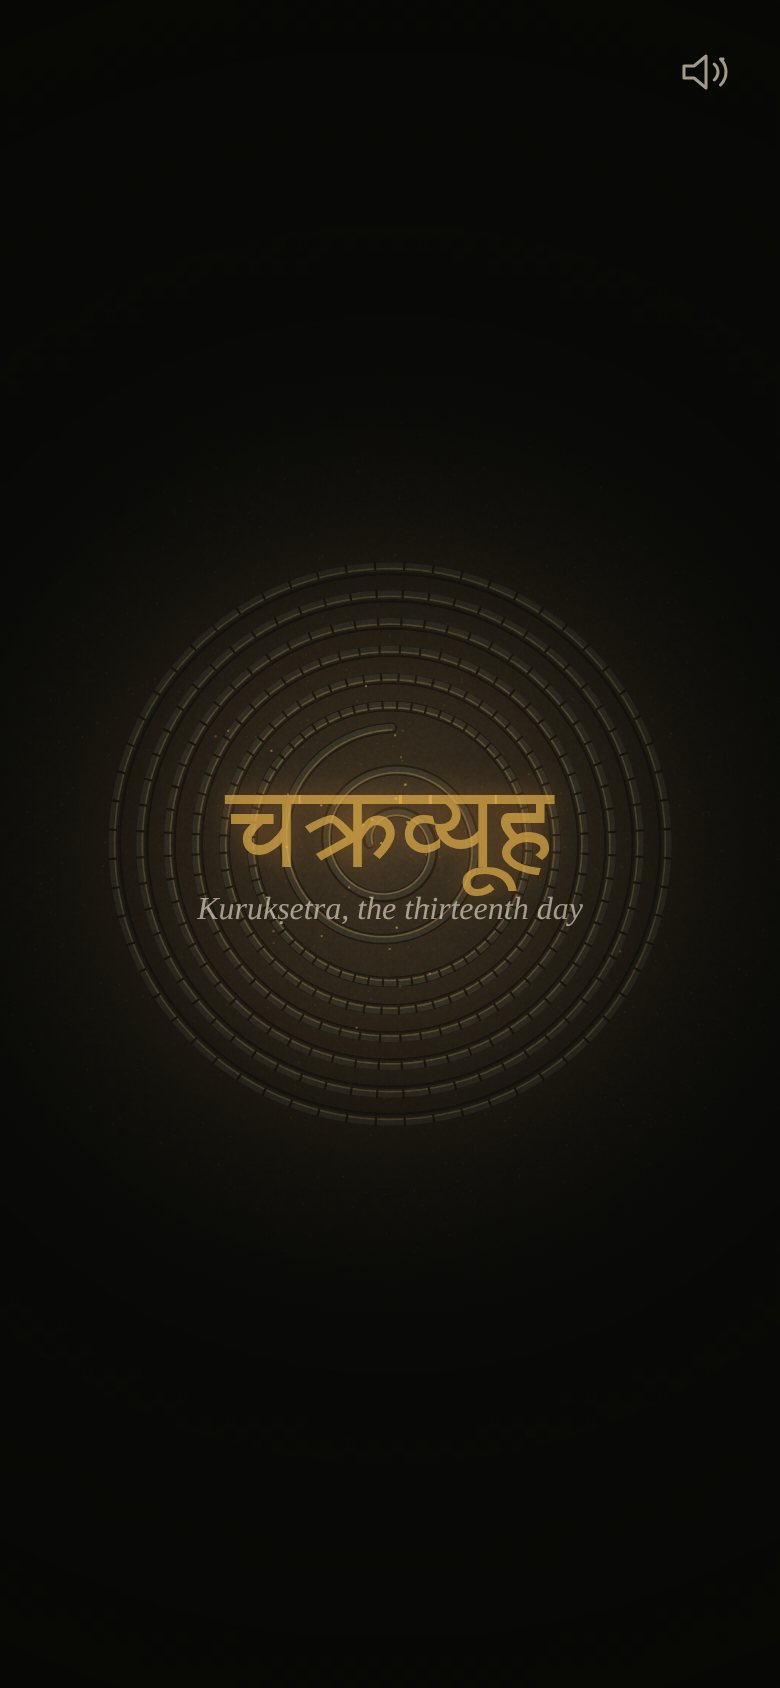
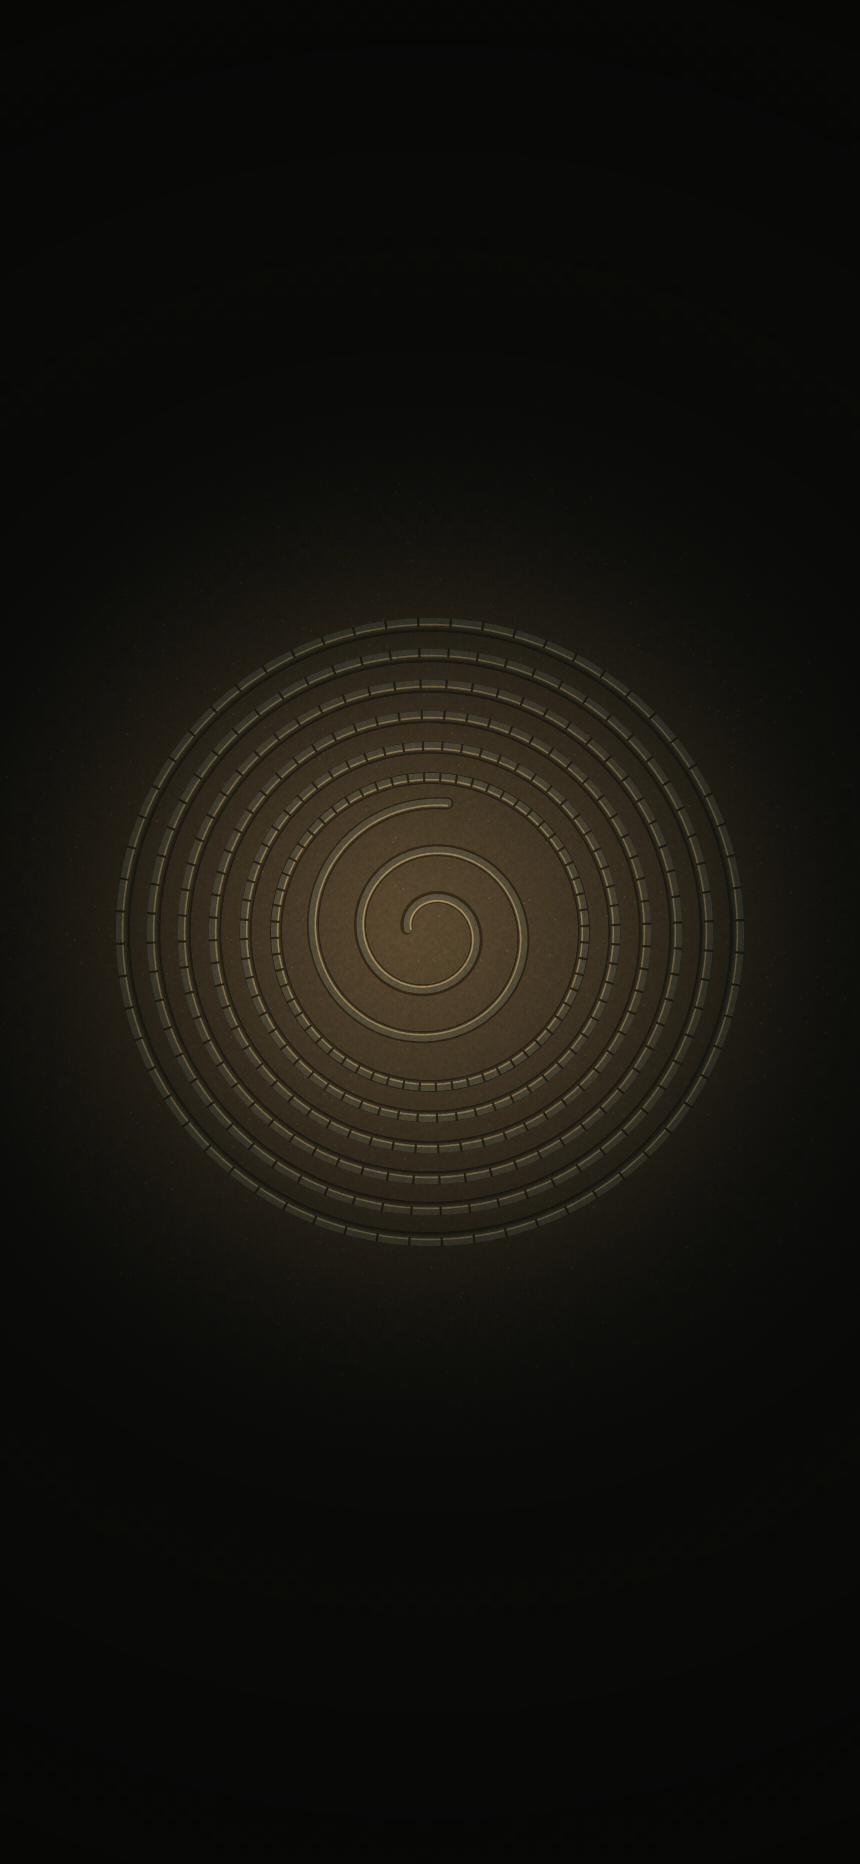
Add #clean preview hook to Chakravyuha; recapture clean scene plates
Claude-Session: https://claude.ai/code/session_01U1XJrWAoD7dh9Pp3e4C81q

Changed region(s): [[0.1231, 0.3389, 0.8615, 0.6777], [0.8615, 0.0308, 0.9231, 0.0616]]

diff --git a/web/chakravyuha.html b/web/chakravyuha.html
@@ -28,6 +28,7 @@ const C = {
 const reduceMotion = matchMedia('(prefers-reduced-motion: reduce)').matches;
 const finePointer = matchMedia('(pointer: fine)').matches;
 const args = new URLSearchParams(location.hash.slice(1));
+const clean = args.has('clean'); // preview hook: scene only, no type or controls
 
 document.body.style.userSelect = 'none';
 document.body.style.webkitUserSelect = 'none';
@@ -1039,6 +1040,7 @@ function render() {
   drawLights();
   drawSunset();
   drawFilm();
+  if (clean) return;
   drawTitle();
   drawRings();
   drawHotspot();
@@ -1092,7 +1094,7 @@ resize();
 resetWorld();
 if (document.fonts && document.fonts.load) document.fonts.load(font(48, false), 'चक्रव्यूह').catch(() => {});
 
-// Preview hooks: #at=SECONDS fast-forwards, #auto holds for you, #reveal opens the sheet.
+// Preview hooks: #at=SECONDS fast-forwards, #auto holds for you, #reveal opens the sheet, #clean hides type and controls.
 if (args.has('at')) {
   phase = 'carve'; pt = 0;
   const auto = args.has('auto'), target = parseFloat(args.get('at')) || 0;

diff --git a/design/mockups/reviews/scholar.md b/design/mockups/reviews/scholar.md
@@ -1,0 +1,71 @@
+# Scholar review: s1e3 mockups
+
+**Verdict: not cleared. The core verse and its 7.34.19 citation are right. But s09 shows a verse that is not in the critical edition, and the chapter states popular details as fact (seven rings, sixteen), which is what our own reveal criticises.**
+
+How I checked: against the BORI critical-edition (CE) e-text (sacred-texts `mbs`, mirrored in cltk) and Hellwig's DCS, which also numbers this verse 7.34.19. My confidence that the reference is correct is high. I have not seen the printed volume, so page numbers are unverified. Verse numbers marked "c." are my counts and need checking.
+
+1. **[blocker] s09.** `एहि वत्स भिन्धि व्यूहं … संशितव्रताः ॥` is not CE text. The page also leaves out v.18, where Abhimanyu's speech actually begins, so `अभिमन्युरुवाच` is in the wrong place. Verses 20–21 are genuine. The e-text reads `yudhā` where the mockup has `युधां`; check against the printed volume. Replace the page with the genuine 7.34.17–21, numbering every verse:
+   `धनंजयो हि नस्तात गर्हयेदेत्य संयुगात् । क्षिप्रमस्त्रं समादाय द्रोणानीकं विशातय ॥ १७ ॥`
+   `अभिमन्युरुवाच । द्रोणस्य दृढमव्यग्रमनीकप्रवरं युधि । पितॄणां जयमाकाङ्क्षन्नवगाहे भिनद्मि च ॥ १८ ॥`
+   If it can't be corrected, label the page "Illustrative".
+
+2. **[blocker] s16, s14.** "Abhimanyu did not learn the chakravyūha in the womb." denies a belief outright; the text only gives a different account. "No one taught him the way out." is not in the verse at all, which says *notsahe vinirgantum*, "I cannot get out." For s16 use: "**The Mahābhārata tells it differently.** In the critical edition, Abhimanyu says his father taught him to break the formation, and that he cannot get out if trouble comes." For s14 use: "The text: his father taught him (7.34.19)."
+
+3. **[blocker] Title, s05, s10 ("Breaks six rings"), s17, s18, and the narration "wheel of seven rings".** The CE never gives the wheel rings. 7.33 describes kings set around Duryodhana, with Droṇa and Jayadratha at the front. 7.32 says only that Abhimanyu broke it *anekadhā*, "in many places". Seven rings is a later image. Label it as the popular telling, with a source, or reword. For s10 use: "Breaks into the wheel and fights alone · 7.34–48".
+
+4. **[major] s08, the reveal.** "There is no womb in the verse" is true but weak.
+   - **Is the womb story absent?** I found no womb story in CE 7.32–51. In 1.213, Abhimanyu learns archery from Arjuna, after birth. I believe it is absent from Nīlakaṇṭha's vulgate too. Confidence: high for the CE's main text, moderate for the vulgate; I have not checked the CE's apparatus and appendices.
+   - **Where does it come from?** Later regional retellings, kathā and folk theatre, popularised by 20th-century film and TV. My confidence about any earliest source is low, so name none until DHE-4.
+   - **Wording.** "Vyāsa's text" is indefensible, because the CE is a reconstruction. Say "the critical edition".
+
+   Two cautions. Aṣṭāvakra learns in the womb within the epic itself (3.132). And this story underpins *garbha-saṃskāra*, which many families practise. Never imply that womb-learning is absurd.
+
+   Suggested tier 2: "Abhimanyu tells Yudhiṣṭhira his father taught him to break in, but he cannot get out (7.34.19). Elsewhere he learns arms from Arjuna as a boy (1.213). The critical edition does not tell the womb story." For tier 1, add the variant in which Kṛṣṇa interrupts.
+
+5. **[major] "Sixteen" (s05, s10, s18).** The CE calls him *bāla*, *śiśu* and *aprāptayauvana* (7.32), and gives no age. As I recall, sixteen comes from the vulgate Ādi Parva: Soma lends his son Varcas for sixteen years. CE 1.61 keeps only the Varcas identification. Cite it as the popular telling, or say "a boy not yet grown".
+
+6. **[major] s05: "a wheel no Pāṇḍava can break".** In 7.34.15, Abhimanyu, Arjuna, Kṛṣṇa or Pradyumna can break it. Use: "a wheel only Arjuna and a few others can break, and Arjuna is gone."
+
+7. **[major] s05, chapter 1: "Droṇa promises Duryodhana a Pāṇḍava king".** That merges this vow with the day-12 vow to capture Yudhiṣṭhira. In 7.32 (c. v.13), Droṇa vows to fell one of the enemy's foremost great warriors. Use: "Droṇa vows to fell a great Pāṇḍava warrior".
+
+8. **[major] s09 chips.** "Proofed · double-keyed" cannot sit beside text written for the mockup. "Public domain text" is risky: the Droṇaparvan volume dates from c.1958, and its status outside India is unclear. Until that is checked, use "BORI critical edition". Confidence: moderate.
+
+9. **[major] s02 and s18: Telugu.** `తెలుగు` is spelled correctly but renders garbled: a bitmap fallback font with broken vowel signs. Tiro Telugu did not load.
+
+10. **[minor] s06.** The Devanagari, sandhi, avagraha and daṇḍas are correct, and the verse scans as a *pathyā* anuṣṭubh.
+    - Add `॥ १९ ॥` and close the IAST with `//`.
+    - s06 splits `विनिर्गन्तुम् / अहं` while s09 joins it; choose one style.
+    - The translation adds "find the way". Use: "My father taught me the method of breaking the array, but if any calamity befalls me I cannot come out."
+
+11. **[minor] s07: "He does not know the way out."** Use "He cannot fight his way out."
+
+12. **[minor] JS end card (frame on s17 shot 06): `यतो धर्मस्ततो जयः`.** It is genuine (e.g. 6.21, 11.17) but uncited. Over a boy killed against the rules of war it reads ironic. Use 7.48 (c. v.22): *eko 'yaṃ nihataḥ śete naiṣa dharmo mato hi naḥ*, "One against six he lies slain; this, we hold, was not dharma."
+
+13. **[minor] The boon (claim `mbh-3.256-boon`, JS reveal).** 3.256 and its retelling at 7.41 are correct, but neither says "for one day"; remove those words. For the gate, cite 7.41–42 (7.42: the path he opened was blocked by Jayadratha).
+
+14. **[minor] s04 and s11.**
+    - "find the wheel broken" should be "find his son slain" (7.50).
+    - "will not see another sunset" should be "to kill Jayadratha tomorrow" (7.51).
+    - "No one followed him in" should be "They could not follow him in" (7.41).
+
+15. **[minor] s10.**
+    - "princess of Virāṭa" should be "daughter of King Virāṭa of Matsya" (4.67 is correct).
+    - Āśvamedhika needs passage numbers: 14.65–69.
+    - The CE spells the name Parikṣit; whichever spelling you use, keep it consistent.
+    - The span 7.34–48 is correct: he is killed by Duḥśāsana's son in 7.48.
+
+16. **[minor] Sensitivity.**
+    - s17 "deity face": no deity should be on this field, since Kṛṣṇa is away with Arjuna.
+    - Show the death by suggestion only.
+    - s08 shows a sign-off dated 28 Sep that has not happened.
+    - s13 `दी` is not a word.
+
+**Confirmed correct:**
+- the six warriors (7.32, 7.48)
+- the Saṃśaptakas drawing Arjuna south (7.32)
+- the chariot wheel (7.47)
+- 4.67, 3.256 and 7.41
+- the native-script names on s02 and s18 (apart from the Telugu rendering)
+- diacritics throughout. "Chakravyūha" mixes English and IAST spelling, so declare it house style or use *cakravyūha*.
+- witness POV, the AI label and stylised frames hold throughout.
+- Navarātri beginning 11 Oct 2026 looks right; check it against a pañcāṅga.
